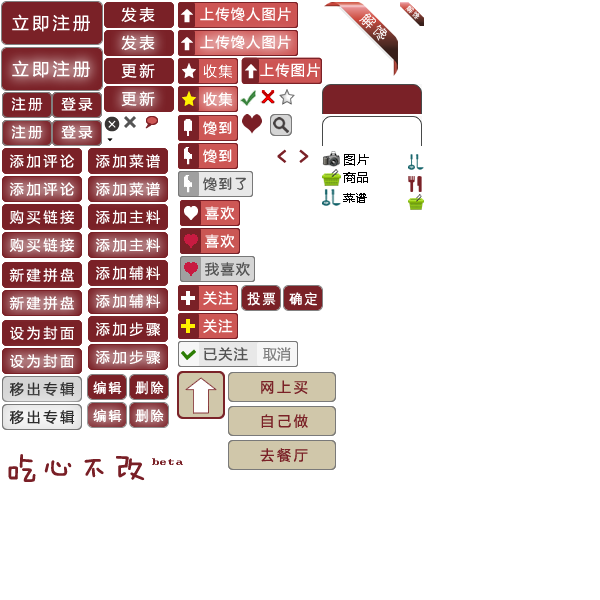
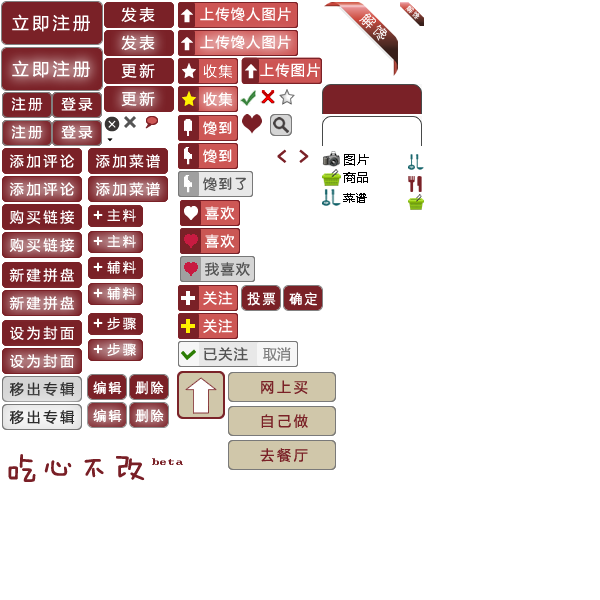
beta  1.0 (hotfix 9)  basic SEO

Changed region(s): [[0.15, 0.33, 0.3, 0.63]]

diff --git a/app/assets/stylesheets/buttons.css.scss b/app/assets/stylesheets/buttons.css.scss
@@ -251,34 +251,34 @@ a.btn.btn_edit:hover{
 }
 
 .btn.btn_add_step{
-    width:80px;
-    height:26px;
-    background-position: -88px -316px;
+    width:55px;
+    height:23px;
+    background-position: -88px -312px;
 }
 
 .btn.btn_add_step:hover{
-    background-position: -88px -344px;
+    background-position: -88px -338px;
 }
 
 .btn.btn_add_major_ingredient{
-    width:80px;
-    height:26px;
+    width:55px;
+    height:23px;
     background-position: -88px -204px;
 }
 
 .btn.btn_add_major_ingredient:hover{
-    background-position: -88px -232px;
+    background-position: -88px -230px;
 }
 
 
 .btn.btn_add_minor_ingredient{
-    width:80px;
-    height:26px;
-    background-position: -88px -260px;
+    width:55px;
+    height:23px;
+    background-position: -88px -256px;
 }
 
 .btn.btn_add_minor_ingredient:hover{
-    background-position: -88px -288px;
+    background-position: -88px -282px;
 }
 
 

diff --git a/app/helpers/validator_helper.rb b/app/helpers/validator_helper.rb
@@ -11,7 +11,7 @@ module ValidatorHelper
 
   def mark_required(klass, attribute)
     klass = klass.class unless klass.is_a?(Class)
-    raw('<span class="red f20 m2">*</span>') if klass.validators_on(attribute).map(&:class).include? ActiveModel::Validations::PresenceValidator
+    raw('<span class="berry_red f20 m2">*</span>') if klass.validators_on(attribute).map(&:class).include? ActiveModel::Validations::PresenceValidator
   end
 
   def mark_required_length(klass, attribute)
